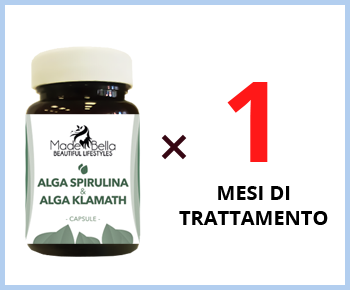
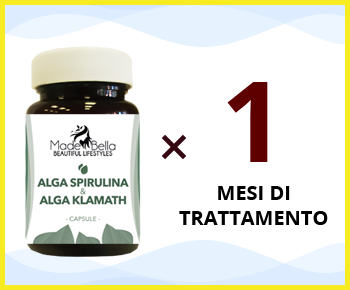
error

Changed region(s): [[0.0, 0.0, 1.0, 1.0], [0.6571, 0.2793, 0.7714, 0.5586]]

diff --git a/css/style.css b/css/style.css
@@ -994,15 +994,19 @@ justify-content: space-between;
 /*------------------ screen five END ---------------------*/
 /*------------------ screen six---------------------*/
 .screen-six{
-    background-color: #e0f5e6;
+    background: url("../images/one-two-three-bg.jpg") 50% 50% no-repeat;
+  -webkit-background-size: cover;
+  background-size: cover;
     padding: 42px 0;
 }
 .screen-six h2 {
     font-weight: 900;
+  background-color: #f7eb21;
+  width: 65%;
     font-size: 46px;
     font-family: 'Montserrat', sans-serif;
     position: relative;
-    margin: 20px 0 0;
+    margin: 20px auto 0;
     text-align: center;
     text-transform: uppercase;
 }
@@ -1043,7 +1047,7 @@ justify-content: space-between;
     width: 100%;
 }
 .ott_main .green{
-    color: #5fc954;
+    color: #f8be22;
 }
 .x1, .x2, .x3{
     margin-bottom: 16px;
@@ -1051,7 +1055,7 @@ justify-content: space-between;
 .ott_price{
     font-family: Motnserat, sans-serif;
     font-size: 76px;
-    color: #ff1818;
+    color: #5f0000;
     position: relative;
     font-weight: bold;
     line-height: 1;
